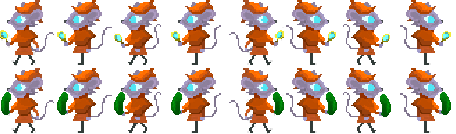
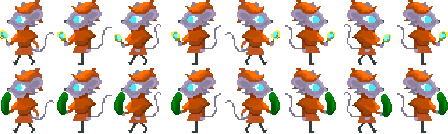
Fix climb pics

diff --git a/scripts/initialization_scene.js b/scripts/initialization_scene.js
@@ -25,15 +25,16 @@ class InitializationScene extends Phaser.Scene{
         this.load.image('sewer_background', '../images/environment_background concept (tileable).png');
         //this.load.image('ground', '../images/platform.png');
         this.load.image('ground', '../images/platform_tileable_middle_10px.png');
-        this.load.image('ladder', '../images/manhole_tunnel_ladder.png');
-        this.load.image('broken_ladder','../images/broken_manhole_tunnel_ladder.png');
+        this.load.image('ladder', '../images/ladder_v2.png');
+        this.load.image('broken_ladder','../images/broken_ladder_v2.png');
 		this.load.image('breaker', '../images/background.jpg');
         this.load.image('move', '../images/platform_tileable_middle_10px.png');
 		this.load.image('cat_sematary','../images/cat_spawn_door_v1.png');
 		this.load.image('cucumber','../images/power_up_cucumber_v1.png');
 		this.load.image('delicious_cheese','../images/win_state_cheese_v1.png');
         this.load.image('MarioSprite', '../images/MarioSprite.png');
-		this.load.image('climb', '../images/mouse_climb_ceiling_v1.png');
+		this.load.image('climb_left', '../images/mouse_climb_ceiling_left_v2.png');
+        this.load.image('climb_right', '../images/mouse_climb_ceiling_right_v2.png');
 
         this.load.spritesheet('mouse', '../images/mouse.png', {frameWidth: 56, frameHeight: 67});
         this.load.spritesheet('stupid_cat','../images/stupid_cat.png',{ frameWidth: 37, frameHeight: 54 });

diff --git a/scripts/level_2.js b/scripts/level_2.js
@@ -55,6 +55,14 @@ class Level2 extends Phaser.Scene{
             height:10,
             scale:1,
         };
+        this.simple_cat_configuration={
+            scene:this,
+            key:'stupid_cat',
+            x: 150,
+            y: 700,
+            right_border:700,
+            left_border:100
+        };
 
         this.highestStory=6;
     }
@@ -163,6 +171,7 @@ class Level2 extends Phaser.Scene{
 
 
         //Mouse initialization
+        //TODO: change y
         this.mouse=new Mouse({
             scene:this,
             key:'mouse',
@@ -317,6 +326,9 @@ class Level2 extends Phaser.Scene{
 				{x:   0, y: -100, duration: 2625, ease: 'Stepped'},
 			]
 		});
+
+		//add cats
+        this.cats=[];
 
     }
 

diff --git a/scripts/Mouse.js b/scripts/Mouse.js
@@ -299,7 +299,11 @@ class Mouse extends Phaser.Physics.Arcade.Sprite {
             this.body.velocity.y = 0;
 			this.isCeiling = true;
 			this.body.allowGravity = false;
-			this.setTexture('climb');
+			if(this.left){
+				this.setTexture('climb_left');
+			}else{
+				this.setTexture('climb_right');
+			}
 
 		}
 	}
@@ -326,7 +330,12 @@ class Mouse extends Phaser.Physics.Arcade.Sprite {
 			this.isCeiling = true;
 			this.body.allowGravity = false;
 			this.platform = platform;
-			this.setTexture('climb');
+			if(this.left){
+				this.setTexture('climb_left');
+			}else{
+				this.setTexture('climb_right');
+			}
+
 
 		}
 		//If we collide with a new platform

diff --git a/scripts/SimpleHarmonicCat.js b/scripts/SimpleHarmonicCat.js
@@ -5,6 +5,20 @@ class SimpleHarmonicCat extends Cat{
         this.left_border=config.left_border;
     }
 
-
+    move() {
+        if(this.left){
+            this.body.velocity.x=-120;
+            this.anims.play('scleft', true);
+            if(this.body.position.x<=this.left_border){
+                this.left=false;
+            }
+        }else{
+            this.body.velocity.x=120;
+            this.anims.play('scright', true);
+            if(this.body.position.x>=this.right_border){
+                this.left=true;
+            }
+        }
+    }
 
 }
